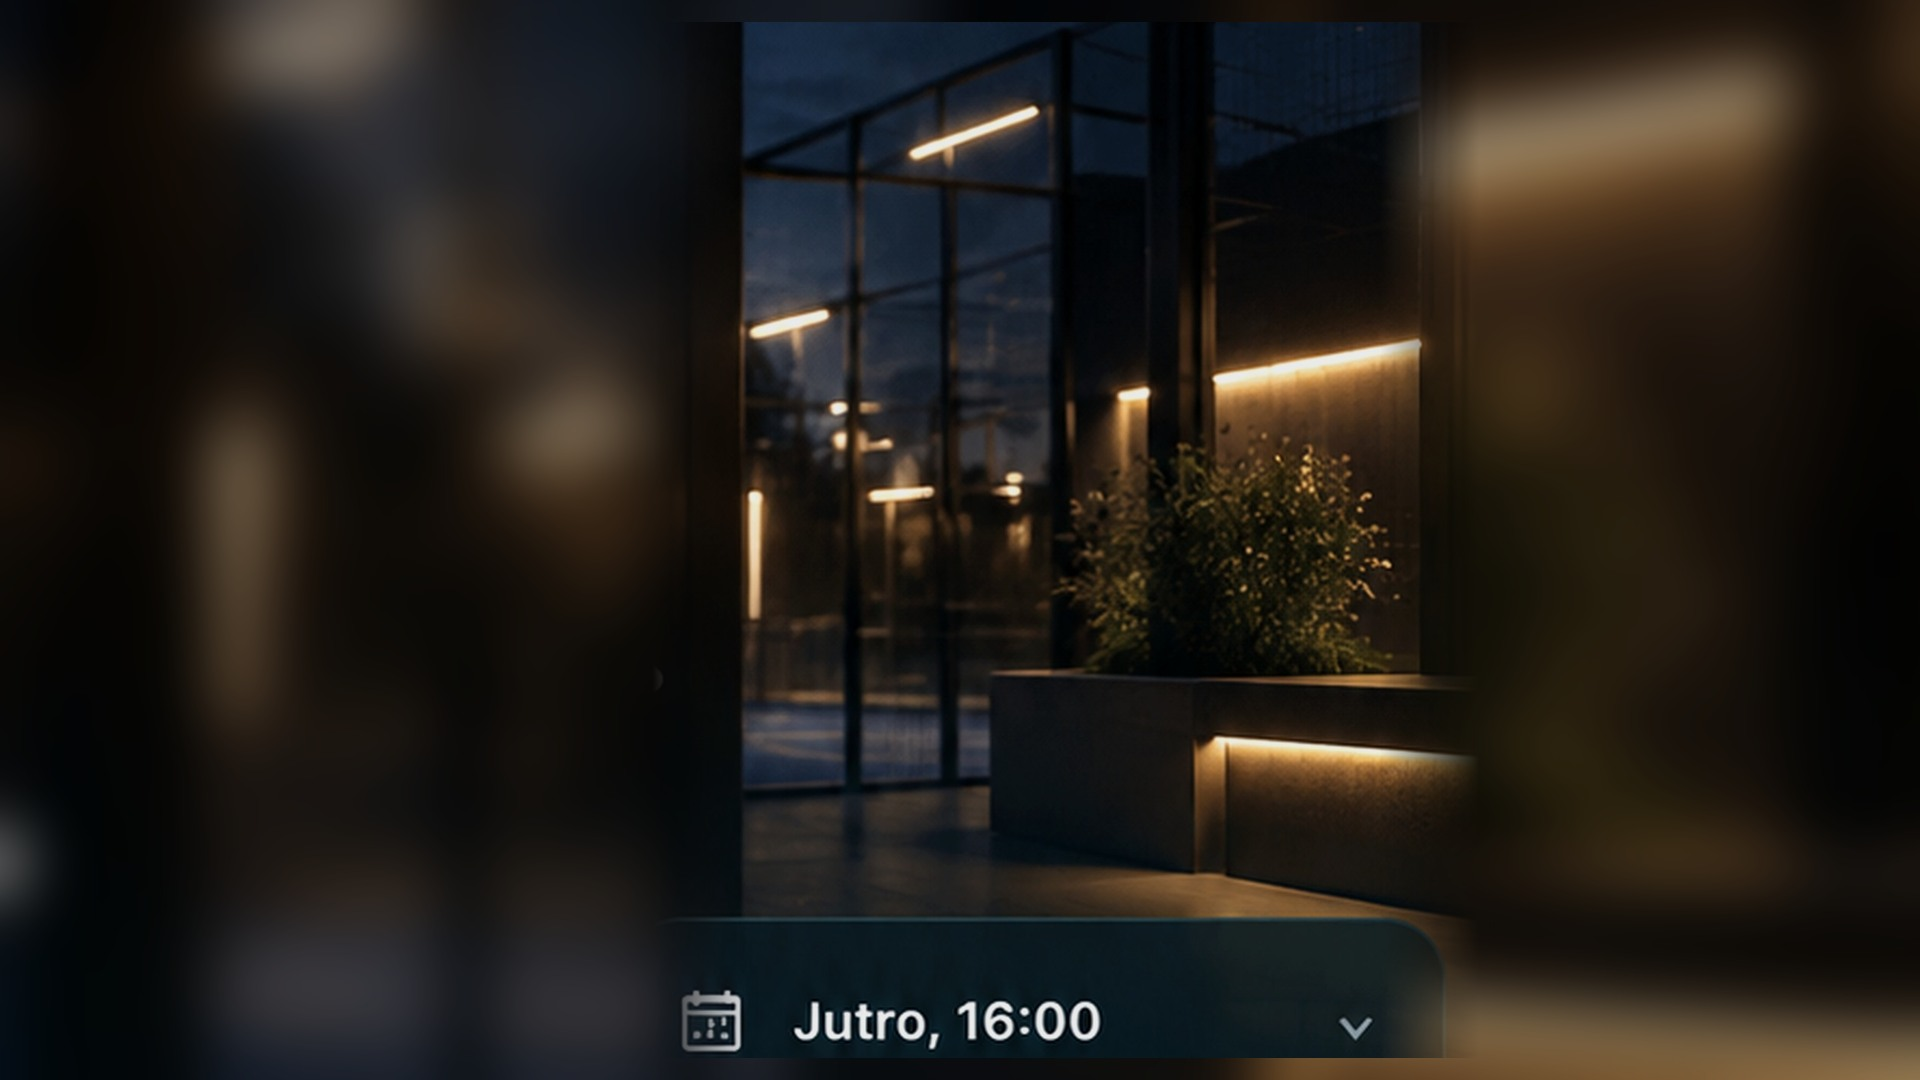
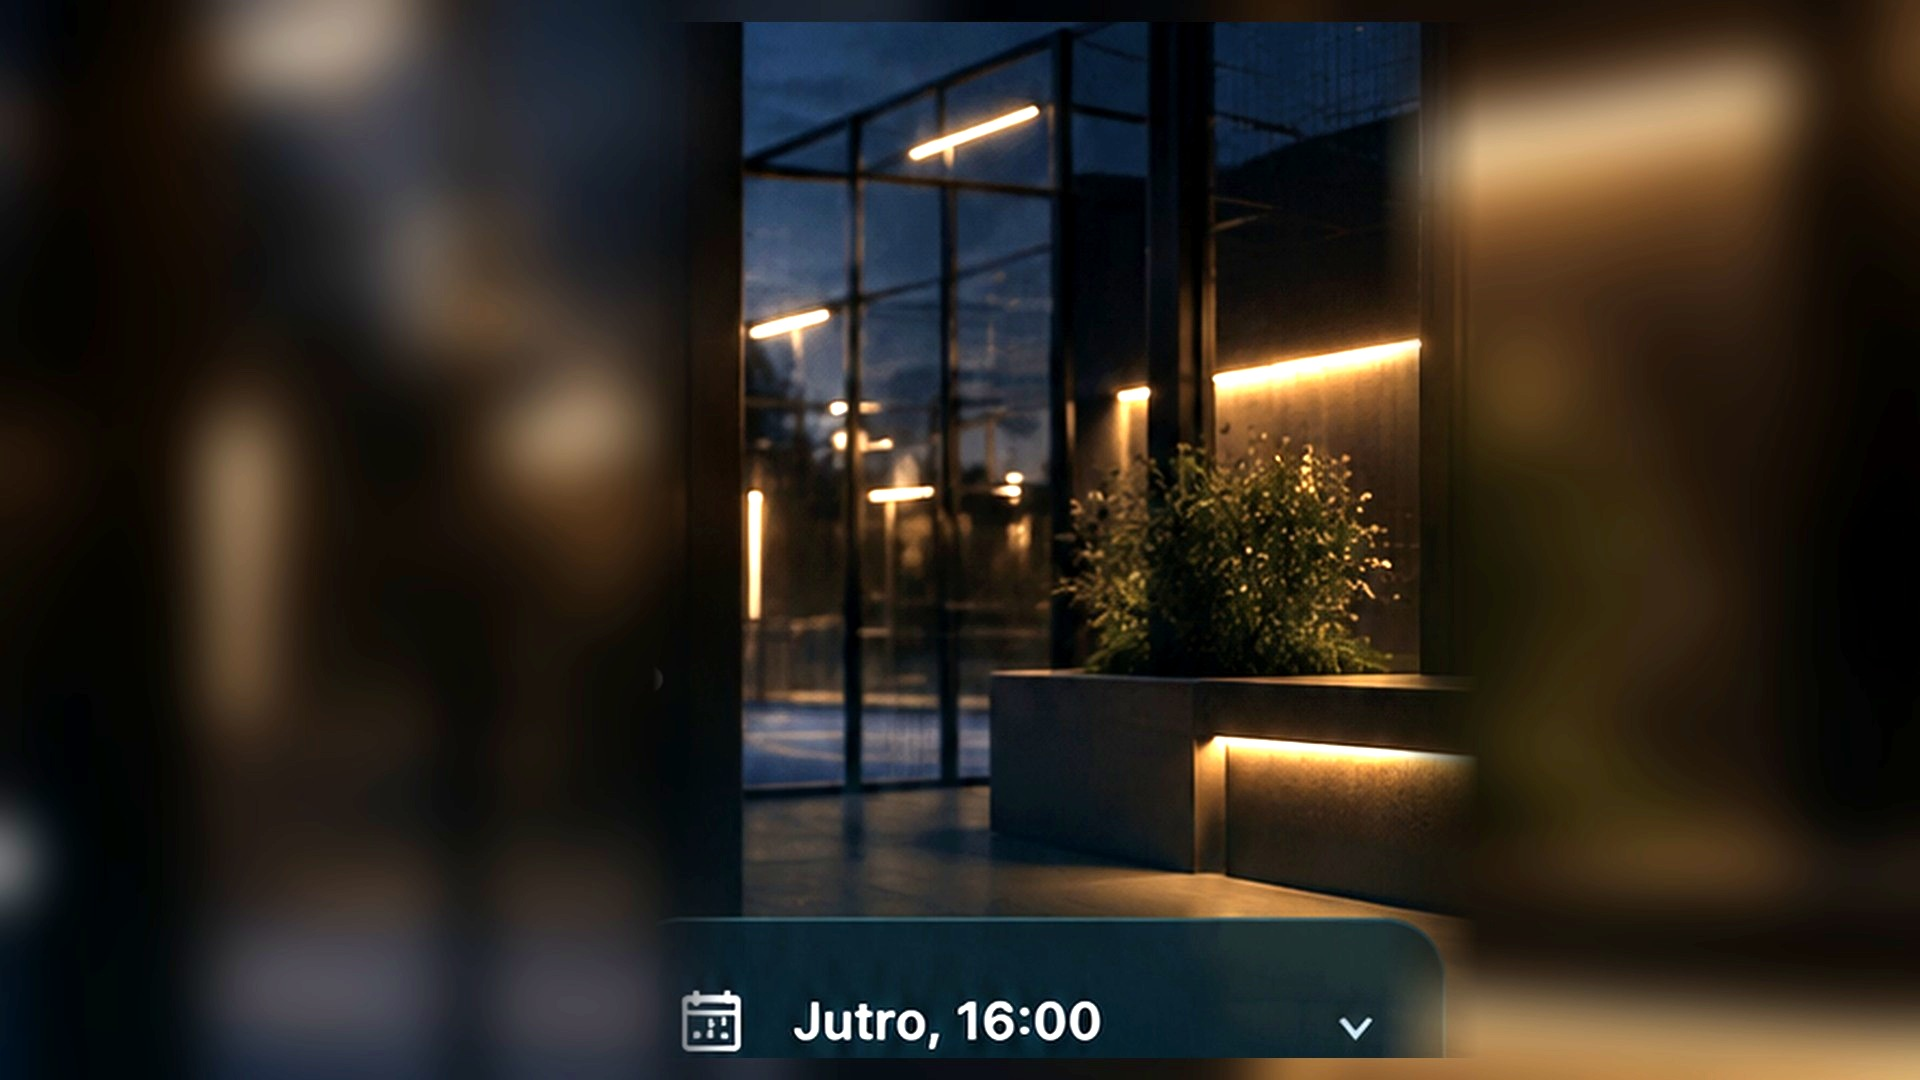
Brighten desktop shared background

diff --git a/frontend/src/styles/desktop-clean-reset.css b/frontend/src/styles/desktop-clean-reset.css
@@ -1168,3 +1168,68 @@
     -webkit-backdrop-filter: blur(15px) saturate(110%) !important;
   }
 }
+
+
+/* =========================================================
+   PADLETIC DESKTOP BG — VISIBILITY HOTFIX 2026-09-14
+   Make the global scene actually visible.
+   ========================================================= */
+@media (min-width: 901px) {
+  :root[data-theme="dark"] .main-shell::before,
+  :root[data-theme="light"] .main-shell::before,
+  .main-shell::before {
+    opacity: 1 !important;
+    filter: none !important;
+    background-image:
+      linear-gradient(90deg,
+        rgba(4,16,22,.56) 0%,
+        rgba(4,16,22,.30) 20%,
+        rgba(4,16,22,.10) 50%,
+        rgba(4,16,22,.04) 76%,
+        rgba(4,16,22,.12) 100%),
+      linear-gradient(180deg,
+        rgba(3,13,18,.02) 0%,
+        rgba(3,13,18,.05) 58%,
+        rgba(3,13,18,.28) 100%),
+      url('/assets/padletic-bg-desktop-wideview.jpg') !important;
+  }
+
+  /* Keep only a light readable tint on the content itself. */
+  .main-shell > .page {
+    background-color: rgba(3, 16, 22, .08) !important;
+  }
+
+  /* Home content no longer paints a dark wall over the image. */
+  .padletic-desktop-home,
+  .pd-page,
+  .pd-shell,
+  .pd-content,
+  .pd-home,
+  .pd-matches,
+  .ref-home {
+    background: transparent !important;
+    background-color: transparent !important;
+    box-shadow: none !important;
+  }
+
+  /* Glass panels: lighter so the court stays visible underneath. */
+  .sport-courts-toolbar,
+  .sport-courts-tools,
+  .sport-availability-board,
+  .sport-time-block,
+  .sport-player-filters,
+  .sport-player-list,
+  .sport-my-profile,
+  .sport-my-tabs,
+  .sport-my-content,
+  .sport-admin-stats > *,
+  .sport-admin-table,
+  .sport-admin-tabs,
+  .match-card,
+  .match-list,
+  .match-filters {
+    background-color: rgba(5, 25, 33, .54) !important;
+    backdrop-filter: blur(11px) saturate(108%) !important;
+    -webkit-backdrop-filter: blur(11px) saturate(108%) !important;
+  }
+}
